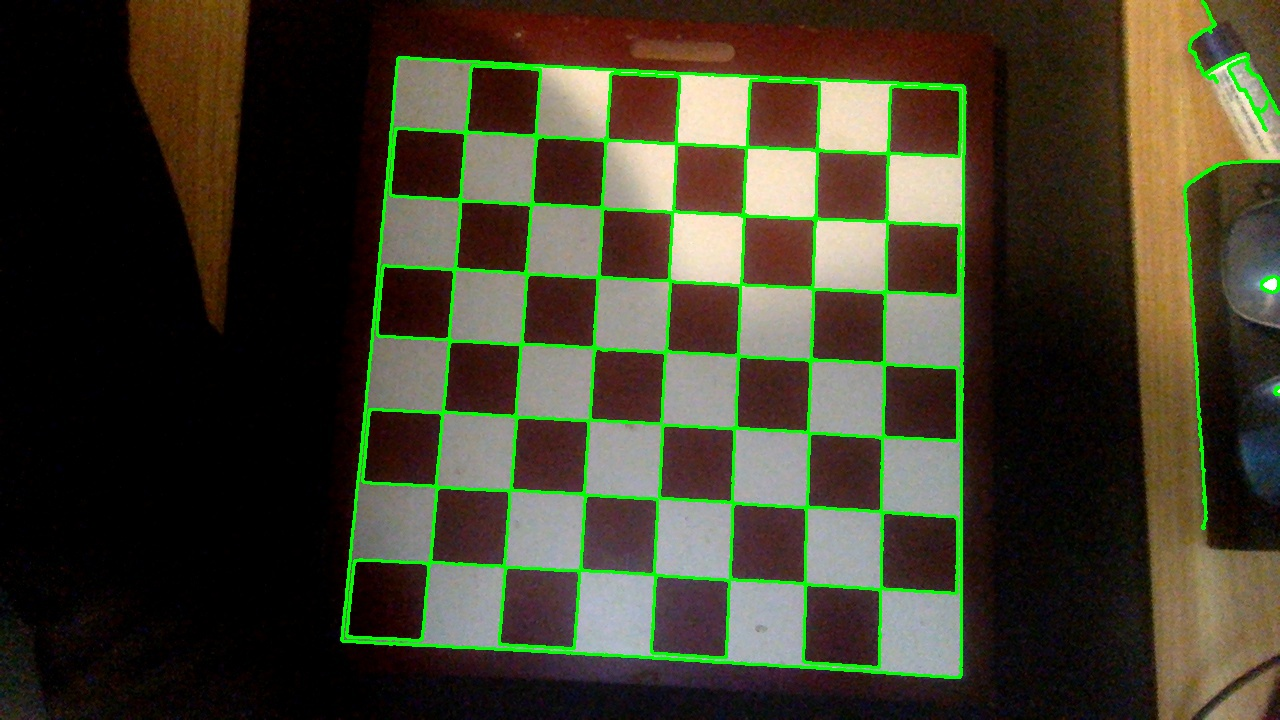
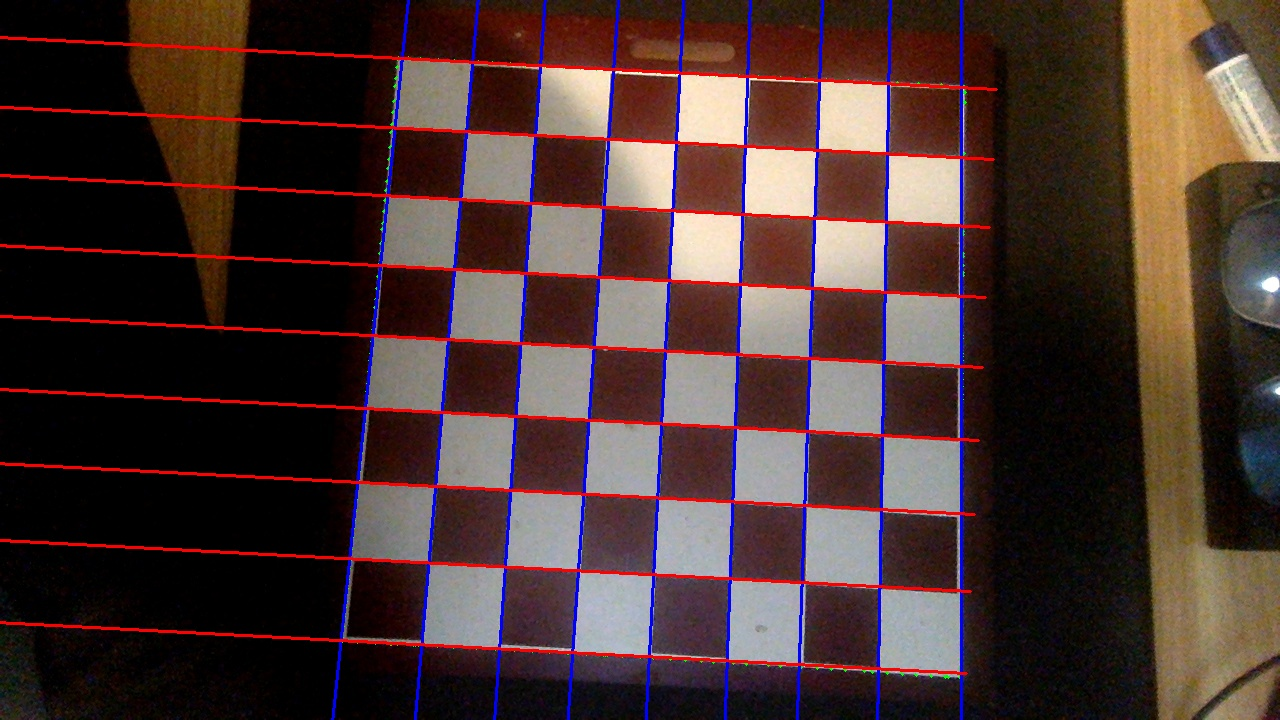
temp solution

diff --git a/buildTraining.py b/buildTraining.py
@@ -7,17 +7,6 @@ AUGMENTATION_LIMIT = 4
 CANNY_LOW = 50
 CANNY_HIGH = 255
 
-def pol2cart(rho, theta):
-    x = rho * np.cos(theta)
-    y = rho * np.sin(theta)
-    return x, y
-
-def polSlope(theta):
-    cosTheta = np.cos(theta)
-    secSquaredTheta = (1 / (cosTheta * cosTheta))
-    return np.tan(theta) + np.tan(theta) * secSquaredTheta
-
-
 def trimLines(lines):
     strong_lines = np.array([]).reshape(-1, 2)
     for i, n1 in enumerate(lines):
@@ -37,6 +26,7 @@ def trimLines(lines):
 
 
 def addLines(frame, lines, color):
+    coords = []
     for line in lines:
         rho, theta = line[0], line[1]
         a = np.cos(theta)
@@ -47,7 +37,10 @@ def addLines(frame, lines, color):
         y1 = int(y0 + 1000*(a))
         x2 = int(x0 - 1000*(-b))
         y2 = int(y0 - 1000*(a))
+        coords.append((x1, y1, x2, y2))
         cv2.line(frame, (x1, y1), (x2, y2), color, 2)  # COLOR: BGR Format
+    return coords
+
 
 def processAndSaveImage(frame, augment, filename='./Training/board.jpeg'): # test
     # Convert to Grayscale
@@ -56,24 +49,29 @@ def processAndSaveImage(frame, augment, filename='./Training/board.jpeg'): # tes
     mod_frame = cv2.GaussianBlur(mod_frame, (5, 5), 0)  # Alternative: cv2.medianBlur(img,5)
     # Apply Canny Edge Detection
     mod_frame = cv2.Canny(mod_frame, CANNY_LOW, CANNY_HIGH, L2gradient=True)
+    # Calculate Contour of board for Perspective Transform
+    ret, thresh = cv2.threshold(mod_frame, 0, 255, cv2.THRESH_BINARY)
+    contours, hierarchy = cv2.findContours(thresh, cv2.RETR_TREE, cv2.CHAIN_APPROX_SIMPLE)
+    maxContour = sorted(contours, key=cv2.contourArea, reverse=True)[0]
+    cv2.drawContours(frame, maxContour, -1, (0, 255, 0), 2)
+    # Calculate Hough Lines for Board Division
     horizontal = cv2.HoughLines(mod_frame, 1, pi / 180, 100, min_theta=0, max_theta=pi/4)
     vertical = cv2.HoughLines(mod_frame, 1, pi / 180, 100, min_theta=pi/4, max_theta=3*pi/4)
     if horizontal is not None and vertical is not None:  # Was able to find gridlines
         horizontal = trimLines(horizontal)
-        addLines(frame, horizontal, (255, 0, 0))
+        horizontal = sorted(list(horizontal), key=lambda x: x[0])
+        coordsH = addLines(frame, horizontal, (255, 0, 0))
 
         vertical = trimLines(vertical)
-        addLines(frame, vertical, (0, 0, 255))
-
         vertical = sorted(list(vertical), key=lambda x: x[0])
-        horizontal = sorted(list(horizontal), key=lambda x: x[0])
+        coordsV = addLines(frame, vertical, (0, 0, 255))
 
         board_left = int(vertical[0][0])
         board_right = int(vertical[-1][0])
         board_bottom = int(horizontal[0][0])
         board_top = int(horizontal[-1][0])
-        print(board_left, board_right, board_bottom, board_top)
-        print(frame.shape)
+        # print(board_left, board_right, board_bottom, board_top)
+        # print(frame.shape)
         mask = np.zeros(frame.shape, np.uint8)
         mask[board_bottom:board_top, board_left:board_right] = frame[board_bottom:board_top, board_left:board_right]
         cv2.imwrite('./ChessImages/testCrop.jpeg', mask)
